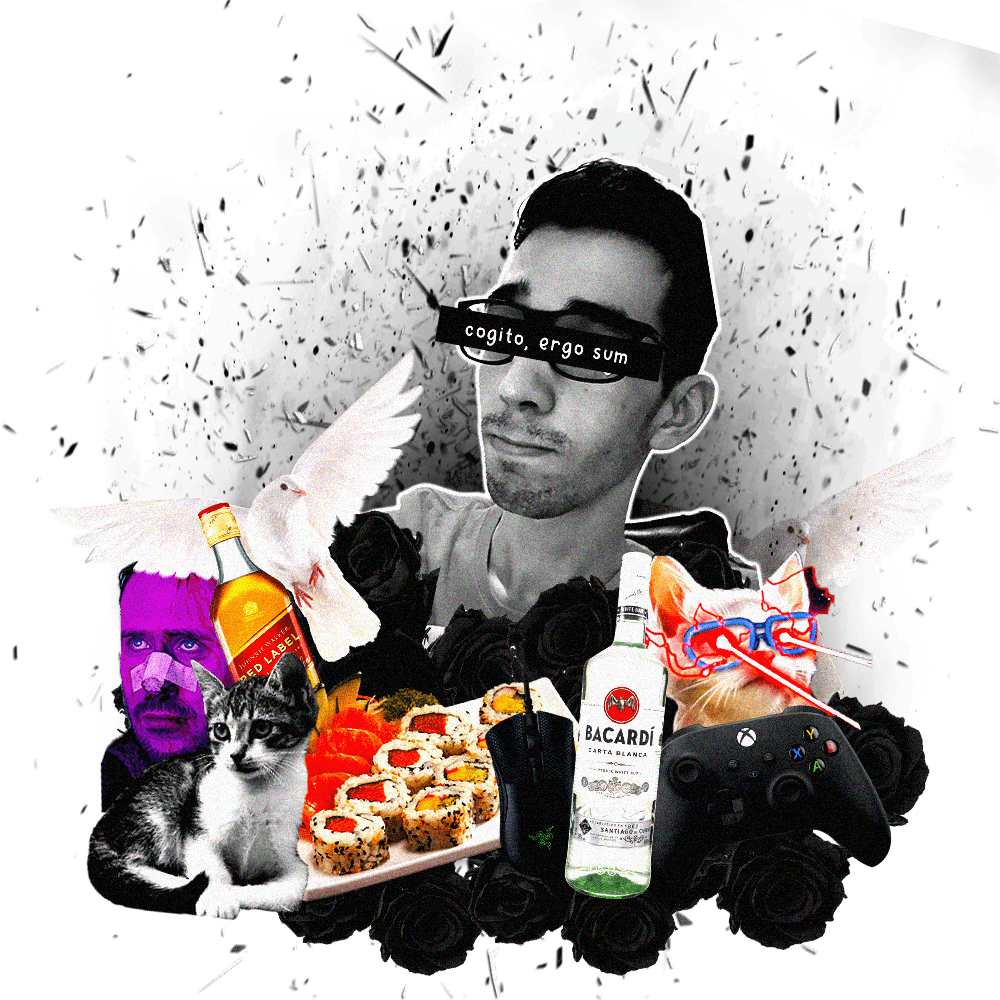
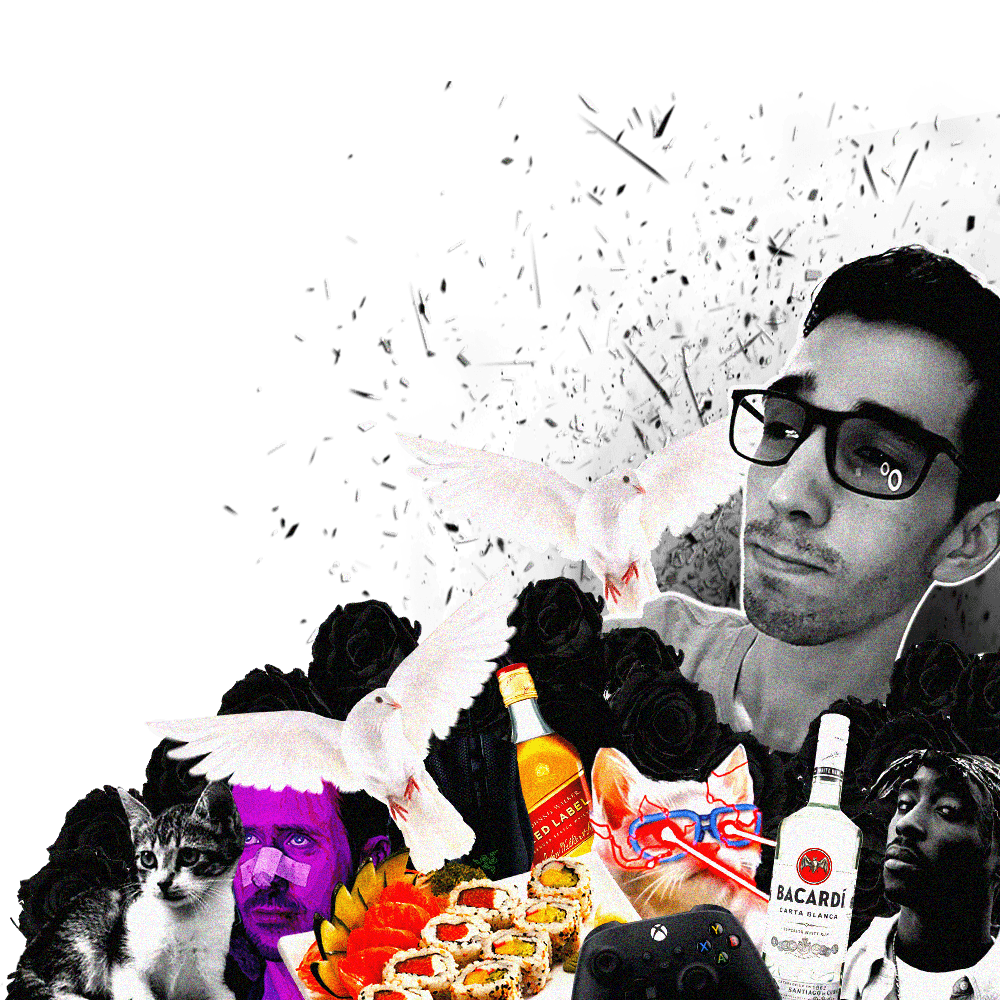
Improvements.

diff --git a/pages/index.js b/pages/index.js
@@ -38,7 +38,7 @@ export default function Home() {
         <section className={styles.hero}>
           <main className={styles.main}>
             <h1 className={styles.title}>Bruno Pereira</h1>
-            <h2 className={styles.subtitle}>Web Developer</h2>
+            <h2 className={styles.subtitle}>Web Developer<span>ウェビデベロッパー</span></h2>
             <p className={styles.p}>Lorem ipsum dolor sit amet, consectetuer adipiscing elit. Donec odio. Quisque volutpat mattis eros. Nullam malesuada erat ut turpis. Suspendisse urna nibh, viverra non, semper suscipit, posuere a, pede.</p>
             <br />
             <Link href="#Contact"><a className={styles.heroCTA}><FontAwesomeIcon icon={faPaperPlane} /> Contact</a></Link>
@@ -54,7 +54,7 @@ export default function Home() {
             <span className={styles.blackRectangle}></span>
           </main>
           <div className={styles.sectionRight}>
-            <div style={{ width: '100%', height: '750px', position: 'relative' }}>
+            <div style={{ width: '750px', height: '750px', position: 'absolute', right:'0', bottom:'0' }}>
               <Image className={styles.heroImage} src={heroImage} alt="Bruno Pereira" quality="100" layout='fill' objectFit='contain' />
             </div>
           </div>
@@ -64,7 +64,7 @@ export default function Home() {
         <section>
           <div>
             <h2>About me</h2>
-            <p>{"My name is Bruno, I'm 25 years old, and I'm a web developer from São Paulo, Brazil. I have experience with HTML, CSS, React.js, Next.js, and WordPress. My expertise is building commercial websites using a front-end framework or a CMS."}</p>
+            <p>{`My name is Bruno, I'm ${new Date().getFullYear() - 1996} years old, and I'm a web developer from São Paulo, Brazil. I have experience with HTML, CSS, React.js, Next.js, and WordPress. My expertise is building commercial websites using a front-end framework or a CMS.`}</p>
             <p>For me, websites are art, and they should be appreciated as such.</p>
             <br />
             <Link href="#Contact"><a className={styles.contactCTA}><FontAwesomeIcon icon={faPaperPlane} /> Contact</a></Link>

diff --git a/styles/Home.module.css b/styles/Home.module.css
@@ -8,11 +8,17 @@
 
 .subtitle {
   color: #fff;
-  font-size: 70px;
-  font-weight: 400;
+  font-size: 60px;
+  font-weight: 300;
   margin: 0;
   z-index: 1;
   position: relative;
+}
+
+.subtitle > span {
+  font-size: 18px;
+  font-weight: bold;
+  display: block;
 }
 
 .one {
@@ -155,6 +161,7 @@ a.heroCTA:hover, a.contactCTA:hover {
   top: -450px;
   left: 45px;
   z-index: 0;
+  opacity: .5;
 }
 
 .blackRectangle::after {
@@ -187,7 +194,6 @@ a.heroCTA:hover, a.contactCTA:hover {
 .heroImage {
   width: auto !important;
   min-width: auto !important;
-  border-radius: 10px;
 }
 
 .wip {
